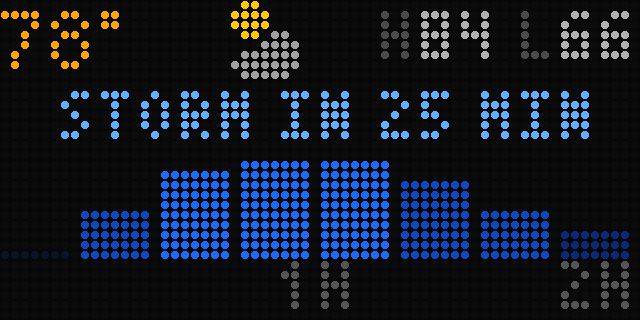
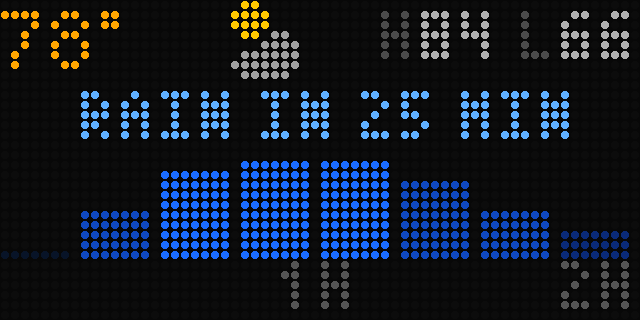
Mock 3-character temps in the 5-day view; drop the STORM title
Columns draw 100+ and negative temps tight (narrow 1, 2px minus) so they
keep a pixel clear of the day dividers.

Claude-Session: https://claude.ai/code/session_01HqCaRkgLpPNdW617vaRVXA

Changed region(s): [[0.0938, 0.2812, 0.9375, 0.4375]]

diff --git a/scripts/mock-weather-round3.js b/scripts/mock-weather-round3.js
@@ -392,7 +392,7 @@ group('rain-states', (panel) => {
   });
   panel('d-downpour', 'DOWNPOUR', (f) => {
     topBar2(f, 78, 'pcloudy_day', 84, 66);
-    title2(f, 'STORM IN 25 MIN', RAIN_SCALE);
+    title2(f, 'RAIN IN 25 MIN', RAIN_SCALE);
     rateBars(f, [0, 3, 9, 16, 12, 6, 3, 1], RAIN_SCALE);
     axis2(f);
   });
@@ -408,4 +408,39 @@ group('rain-states', (panel) => {
     rateBars(f, [1.2, 2, 3, 4.5, 3.5, 2.6, 1.8, 1.1], SNOW_SCALE);
     axis2(f);
   });
+});
+
+// ------------------------------------------------------------ 5-day edge cases
+// Three-character temperatures (100+ or -10 and below) are 11px in Tom Thumb;
+// a column has 12px between dividers.
+// Three-character temperatures drawn tight so they keep 1px off the dividers:
+// '1' advances 3 (its right column is blank anyway) and the minus is 2px wide.
+// "104" -> 10px, "-12" -> 9px. The 2px minus is used for every negative so
+// they match; other two-digit numbers draw normally.
+function numText(f, str, cx, base, color) {
+  if (str.length < 3 && str[0] !== '-') return ctext(f, 'small', str, cx, base, color);
+  const adv = (ch) => (ch === '1' || ch === '-' ? 3 : 4);
+  const w = [...str].reduce((a, ch) => a + adv(ch), 0) - 1;
+  let x = cx - Math.floor(w / 2);
+  for (const ch of str) {
+    if (ch === '-') f.fill(x, base - 3, 2, 1, color);
+    else f.text('small', ch, x, base, color);
+    x += adv(ch);
+  }
+}
+function fiveDay(f, now, icon, hi, lo, days) {
+  topBar2(f, now, icon, hi, lo);
+  for (let i = 0; i < 4; i++) f.fill(i * 13 + 12, 10, 1, 22, C.divider);
+  days.forEach(([d, h, ic], i) => {
+    const cx = i * 13 + 6;
+    ctext(f, 'small', d, cx, 15, C.grey);
+    drawIcon(f, ic, cx - 4, 17);
+    numText(f, String(h), cx, 31, tempColor(h));
+  });
+}
+group('5day-edge', (panel) => {
+  panel('a-heat', 'HEAT WAVE', (f) => fiveDay(f, 97, 'sun', 101, 82,
+    [['SA', 99, 'sun'], ['SU', 104, 'sun'], ['MO', 100, 'pcloudy_day'], ['TU', 92, 'storm'], ['WE', 86, 'pcloudy_day']]));
+  panel('b-cold', 'COLD SNAP', (f) => fiveDay(f, -8, 'moon', 2, -14,
+    [['SA', -3, 'snow'], ['SU', -12, 'sun'], ['MO', -6, 'pcloudy_day'], ['TU', 9, 'snow'], ['WE', 21, 'cloudy']]));
 });
